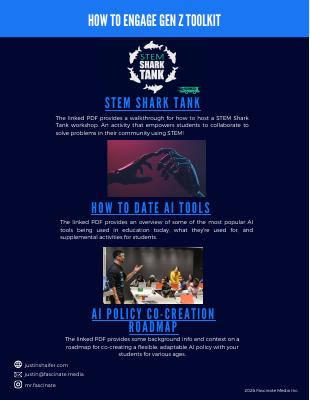
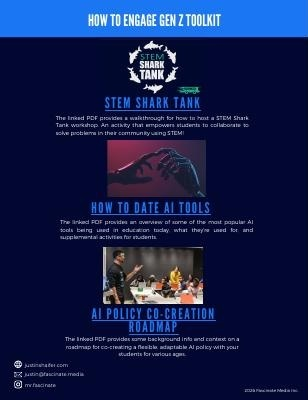
Fix Engaging Gen Z Tool Kit image and revert to original thumbnail
- Revert Engaging Gen Z to use original thumbnail image instead of AI Policy Roadmap
- Remove white strip from right edge of Engaging Gen Z Tool Kit image

https://claude.ai/code/session_01JAPsBGuLj8XD83QngFfxnZ

diff --git a/public/resources.html b/public/resources.html
@@ -161,7 +161,7 @@
   <div class="category-title">For Educators</div>
   <div class="resource-grid">
     <div class="resource-card">
-      <img class="card-image" src="/images/AI Policy Roadmap.png" alt="Engaging Gen Z Tool Kit"/>
+      <img class="card-image" src="/thumbnails/Engaging Gen Z Tool Kit.jpg" alt="Engaging Gen Z Tool Kit"/>
       <div class="card-body">
         <div class="card-title">Engaging Gen Z Tool Kit</div>
         <div class="card-desc">Strategies and activities for connecting with Gen Z through technology, storytelling, and hands-on engagement.</div>
